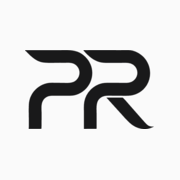
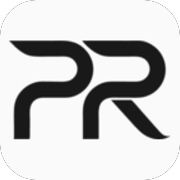
Add light/dark/system theme with Radix Mauve.
Wire a footer theme switch, refresh the PR favicon for contrast and rounded corners, and ease the enter animation.

diff --git a/src/app/page.tsx b/src/app/page.tsx
@@ -1,24 +1,7 @@
+import { ArrowTopRightIcon } from "@radix-ui/react-icons";
 import { Reveal } from "@/components/reveal";
+import { ThemeSwitch } from "@/components/theme-switch";
 import { experience, profile, projects, socials } from "@/lib/content";
-
-function ArrowUpRight({ className = "" }: { className?: string }) {
-  return (
-    <svg
-      viewBox="0 0 16 16"
-      fill="none"
-      aria-hidden="true"
-      className={className}
-    >
-      <path
-        d="M4.5 11.5L11.5 4.5M11.5 4.5H5.5M11.5 4.5V10.5"
-        stroke="currentColor"
-        strokeWidth="1.25"
-        strokeLinecap="round"
-        strokeLinejoin="round"
-      />
-    </svg>
-  );
-}
 
 function SectionLabel({ children }: { children: React.ReactNode }) {
   return (
@@ -41,7 +24,7 @@ export default function Home() {
         </p>
       </Reveal>
 
-      <Reveal as="section" delay={0.08} className="mt-10 space-y-4">
+      <Reveal as="section" delay={0.15} className="mt-10 space-y-4">
         <p className="text-[15px] leading-7 text-muted">{profile.bio[0]}</p>
         <p className="text-[15px] leading-7 text-muted">
           {profile.bioOpen.before}
@@ -58,7 +41,7 @@ export default function Home() {
       </Reveal>
 
       {/* Work */}
-      <Reveal as="section" delay={0.12} className="mt-20">
+      <Reveal as="section" delay={0.2} className="mt-20">
         <SectionLabel>Work</SectionLabel>
         <ul className="-mx-3">
           {experience.map((job) => {
@@ -79,7 +62,7 @@ export default function Home() {
                     <span className="flex items-center gap-1.5 font-medium text-foreground">
                       {job.company}
                       {job.href && (
-                        <ArrowUpRight className="h-3.5 w-3.5 -translate-y-0.5 text-faint opacity-0 transition-all duration-300 group-hover:translate-x-0 group-hover:opacity-100 -translate-x-1" />
+                        <ArrowTopRightIcon className="h-3.5 w-3.5 -translate-y-0.5 text-faint opacity-0 transition-all duration-300 group-hover:translate-x-0 group-hover:opacity-100 -translate-x-1" />
                       )}
                     </span>
                     <span className="shrink-0 font-mono text-xs text-faint">
@@ -98,7 +81,7 @@ export default function Home() {
       </Reveal>
 
       {/* Projects */}
-      <Reveal as="section" delay={0.12} className="mt-20">
+      <Reveal as="section" delay={0.2} className="mt-20">
         <SectionLabel>Selected Projects</SectionLabel>
         <ul className="-mx-3 grid gap-2">
           {projects.map((project) => (
@@ -112,7 +95,7 @@ export default function Home() {
                 <div className="flex items-baseline justify-between gap-4">
                   <span className="flex items-center gap-1.5 font-medium text-foreground">
                     {project.name}
-                    <ArrowUpRight className="h-3.5 w-3.5 -translate-y-0.5 -translate-x-1 text-faint opacity-0 transition-all duration-300 group-hover:translate-x-0 group-hover:opacity-100" />
+                    <ArrowTopRightIcon className="h-3.5 w-3.5 -translate-y-0.5 -translate-x-1 text-faint opacity-0 transition-all duration-300 group-hover:translate-x-0 group-hover:opacity-100" />
                   </span>
                   <span className="shrink-0 font-mono text-xs text-faint">
                     {project.year}
@@ -128,7 +111,7 @@ export default function Home() {
       </Reveal>
 
       {/* Connect */}
-      <Reveal as="footer" delay={0.12} className="mt-20">
+      <Reveal as="footer" delay={0.2} className="mt-20">
         <SectionLabel>Connect</SectionLabel>
         <p className="text-[15px] leading-7 text-muted">
           Always happy to talk about engineering, design, and building
@@ -153,14 +136,17 @@ export default function Home() {
                 className="group inline-flex items-center gap-1 text-sm text-muted transition-colors hover:text-foreground"
               >
                 {social.label}
-                <ArrowUpRight className="h-3 w-3 text-faint transition-colors group-hover:text-foreground" />
+                <ArrowTopRightIcon className="h-3 w-3 text-faint transition-colors group-hover:text-foreground" />
               </a>
             </li>
           ))}
         </ul>
-        <p className="mt-16 font-mono text-xs text-faint">
-          © {new Date().getFullYear()} {profile.name}.
-        </p>
+        <div className="mt-16 flex items-center justify-between gap-4">
+          <p className="font-mono text-xs text-faint">
+            © {new Date().getFullYear()} {profile.name}.
+          </p>
+          <ThemeSwitch />
+        </div>
       </Reveal>
     </main>
   );

diff --git a/src/components/theme-switch.tsx b/src/components/theme-switch.tsx
@@ -1,0 +1,48 @@
+"use client";
+
+import { DesktopIcon, MoonIcon, SunIcon } from "@radix-ui/react-icons";
+import { useTheme } from "next-themes";
+import { useEffect, useState } from "react";
+
+const options = [
+  { value: "light", label: "Light", Icon: SunIcon },
+  { value: "dark", label: "Dark", Icon: MoonIcon },
+  { value: "system", label: "System", Icon: DesktopIcon },
+] as const;
+
+export function ThemeSwitch() {
+  const { theme, setTheme } = useTheme();
+  const [mounted, setMounted] = useState(false);
+
+  useEffect(() => {
+    setMounted(true);
+  }, []);
+
+  return (
+    <div
+      role="group"
+      aria-label="Color theme"
+      className="flex items-center gap-1"
+    >
+      {options.map(({ value, label, Icon }) => {
+        const active = mounted && theme === value;
+        return (
+          <button
+            key={value}
+            type="button"
+            aria-label={label}
+            aria-pressed={active}
+            onClick={() => setTheme(value)}
+            className={`rounded-md p-1.5 transition-colors ${
+              active
+                ? "text-foreground"
+                : "text-faint hover:text-muted"
+            }`}
+          >
+            <Icon className="h-3.5 w-3.5" />
+          </button>
+        );
+      })}
+    </div>
+  );
+}

diff --git a/src/app/globals.css b/src/app/globals.css
@@ -1,25 +1,26 @@
 @import "tailwindcss";
 
+/* Radix Mauve — https://www.radix-ui.com/colors */
 :root {
-  --background: #fafafa;
-  --foreground: #18181b;
-  --muted: #71717a;
-  --faint: #a1a1aa;
-  --line: rgba(0, 0, 0, 0.08);
-  --hover: rgba(0, 0, 0, 0.04);
-  --selection: rgba(0, 0, 0, 0.1);
+  color-scheme: light;
+  --background: #fdfcfd;
+  --foreground: #211f26;
+  --muted: #65636d;
+  --faint: #8e8c99;
+  --line: #dbd8e0;
+  --hover: #30004010;
+  --selection: #20003820;
 }
 
-@media (prefers-color-scheme: dark) {
-  :root {
-    --background: #0a0a0a;
-    --foreground: #ededed;
-    --muted: #8b8b8e;
-    --faint: #5a5a5e;
-    --line: rgba(255, 255, 255, 0.1);
-    --hover: rgba(255, 255, 255, 0.05);
-    --selection: rgba(255, 255, 255, 0.15);
-  }
+.dark {
+  color-scheme: dark;
+  --background: #121113;
+  --foreground: #eeeef0;
+  --muted: #b5b2bc;
+  --faint: #6f6d78;
+  --line: #3c393f;
+  --hover: #ebeaf814;
+  --selection: #efe6fe25;
 }
 
 @theme inline {

diff --git a/src/app/layout.tsx b/src/app/layout.tsx
@@ -1,7 +1,8 @@
 import type { Metadata } from "next";
 import { Geist, Geist_Mono } from "next/font/google";
-import "./globals.css";
+import { ThemeProvider } from "@/components/theme-provider";
 import { profile } from "@/lib/content";
+import "./globals.css";
 
 const geistSans = Geist({
   variable: "--font-geist-sans",
@@ -54,9 +55,12 @@ export default function RootLayout({
   return (
     <html
       lang="en"
+      suppressHydrationWarning
       className={`${geistSans.variable} ${geistMono.variable} h-full antialiased`}
     >
-      <body className="min-h-full">{children}</body>
+      <body className="min-h-full">
+        <ThemeProvider>{children}</ThemeProvider>
+      </body>
     </html>
   );
 }

diff --git a/src/lib/content.ts b/src/lib/content.ts
@@ -40,7 +40,7 @@ export const experience: Experience[] = [
   {
     company: "Open",
     role: "Design Engineer",
-    period: "2025 — 2026",
+    period: "2025 — Current",
     description:
       "Full-stack design engineer at an AI-native commerce platform powering 140+ restaurant brands. Owned native menu & fulfillment UX, shipped iOS Live Activities end-to-end, and built greenfield merchant-portal modules.",
     href: "https://getopen.com/",

diff --git a/src/components/theme-provider.tsx b/src/components/theme-provider.tsx
@@ -1,0 +1,16 @@
+"use client";
+
+import { ThemeProvider as NextThemesProvider } from "next-themes";
+
+export function ThemeProvider({ children }: { children: React.ReactNode }) {
+  return (
+    <NextThemesProvider
+      attribute="class"
+      defaultTheme="system"
+      enableSystem
+      disableTransitionOnChange
+    >
+      {children}
+    </NextThemesProvider>
+  );
+}

diff --git a/src/components/reveal.tsx b/src/components/reveal.tsx
@@ -26,7 +26,7 @@ export function Reveal({
       whileInView={{ opacity: 1, y: 0, filter: "blur(0px)" }}
       viewport={{ once: true, margin: "0px 0px -10% 0px" }}
       transition={{
-        duration: 0.6,
+        duration: 0.95,
         delay,
         ease: [0.16, 1, 0.3, 1],
       }}
